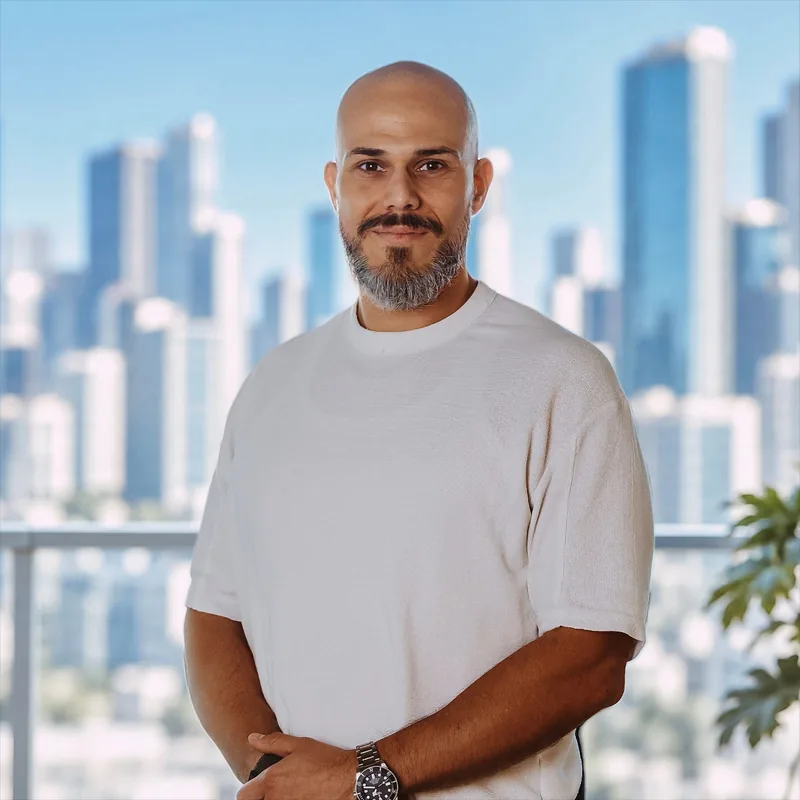
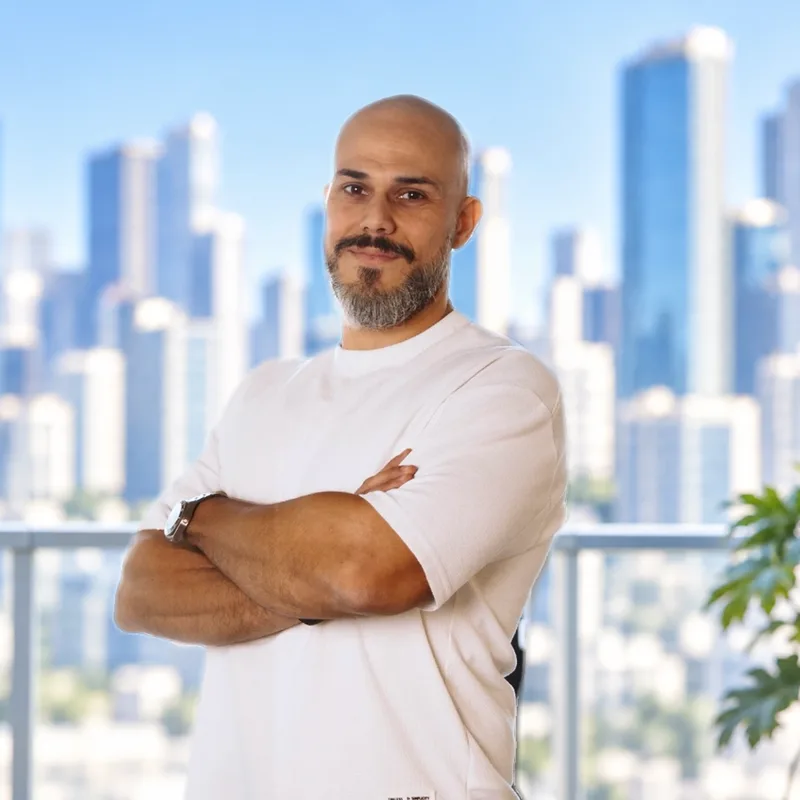
Update Amit Friedman's portrait

diff --git a/components/sections/Personnel.tsx b/components/sections/Personnel.tsx
@@ -15,7 +15,7 @@ import { assetPath } from "@/lib/basePath";
 // behind hover -- names and roles are always visible, on every device.
 // Bump when portrait files are replaced in place: the host caches images for
 // a day by URL, so a new query string is what makes visitors fetch the new set.
-const PORTRAIT_VERSION = "2026-10-28";
+const PORTRAIT_VERSION = "2026-11-02";
 
 function PersonEntry({ person, index }: { person: Person; index: number }) {
   return (
